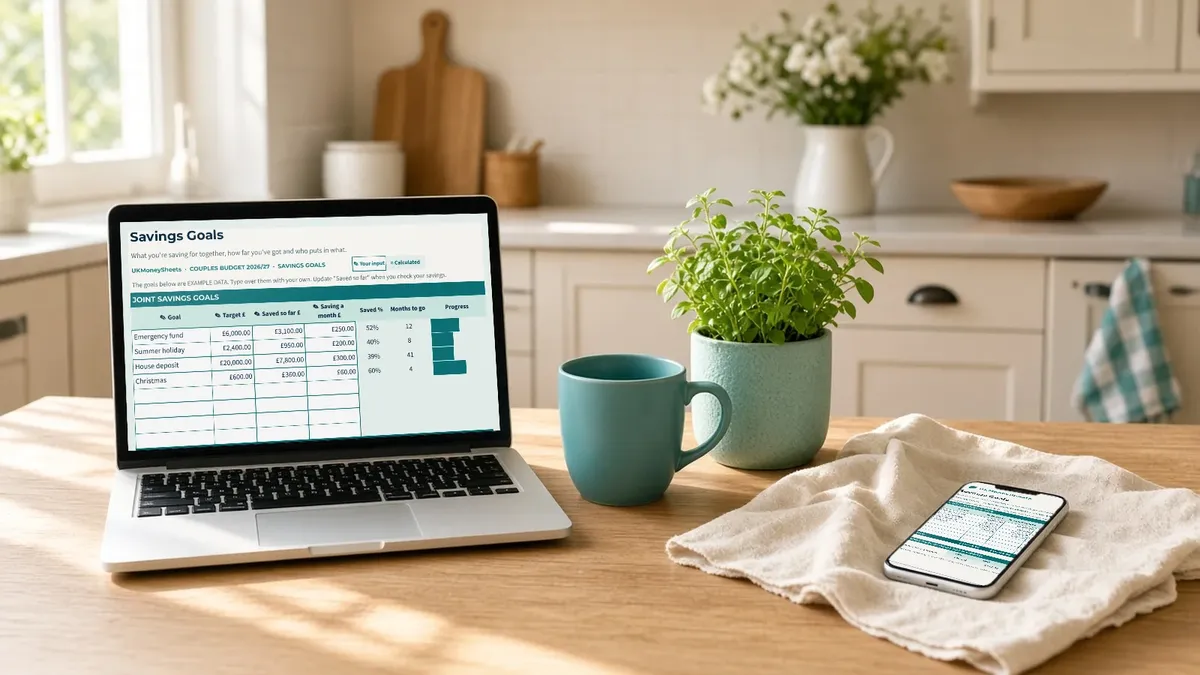
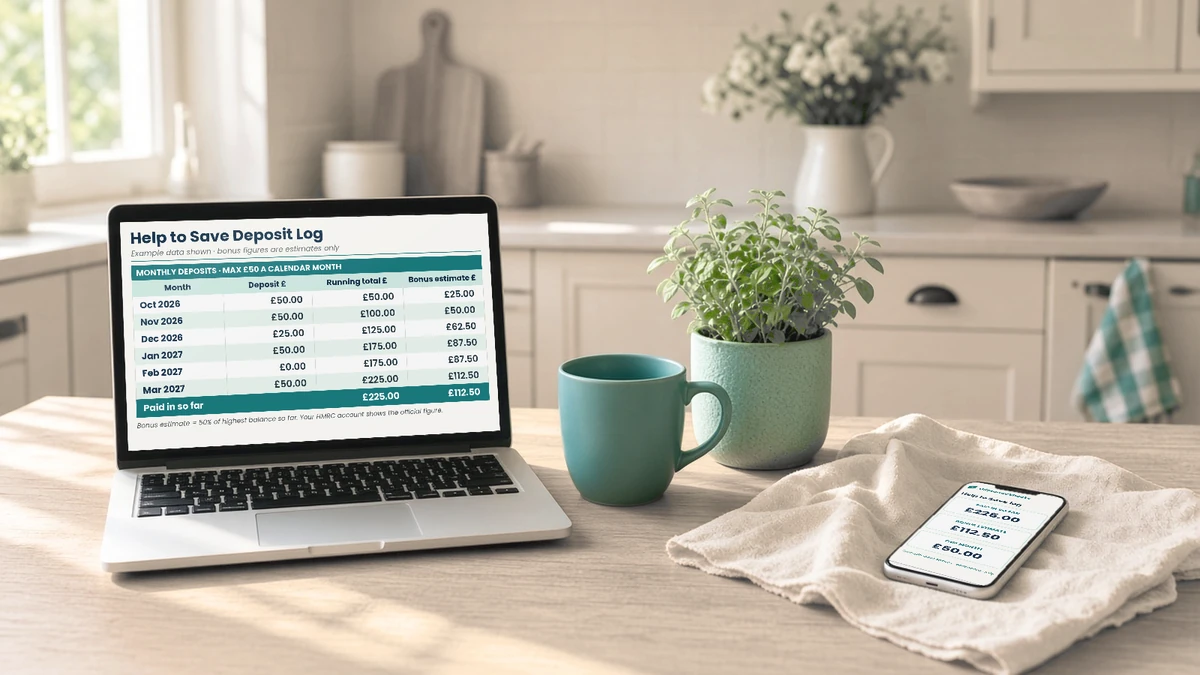
Help to Save guide: replace hero with deposit and bonus log
Swap the Couples Budget header for Nia's Help to Save Deposit Log
(every deposit £50 or less, example data). Update NIA_HEADERS label
and cache-bust the header image with ?v=2.

diff --git a/src/lib/guides.ts b/src/lib/guides.ts
@@ -811,7 +811,7 @@ const VISUAL: Record<
 /** Nia's 16:9 lifestyle header photos (public/visual/guides/<slug>.webp). */
 const NIA_HEADERS: Record<string, string> = {
   "cash-isa-12k-under-65-planner": "Cash ISA allowance planner",
-  "help-to-save-deposit-bonus-tracker": "Help to Save bonus tracker",
+  "help-to-save-deposit-bonus-tracker": "Help to Save deposit and bonus log",
   "register-self-assessment-5-october": "Self Assessment records sheet",
   "uk-monthly-budget-google-sheets": "UK monthly budget",
   "house-deposit-lisa-planner": "house deposit and LISA planner",
@@ -830,8 +830,10 @@ for (const g of guides) {
   const v = VISUAL[g.slug];
   if (v) Object.assign(g, v);
   if (!g.headerImage && NIA_HEADERS[g.slug]) {
+    const bust =
+      g.slug === "help-to-save-deposit-bonus-tracker" ? "?v=2" : "";
     g.headerImage = {
-      src: `/visual/guides/${g.slug}.webp`,
+      src: `/visual/guides/${g.slug}.webp${bust}`,
       alt: `A ${NIA_HEADERS[g.slug]} in Google Sheets on a laptop at home, example data shown`,
     };
   }
